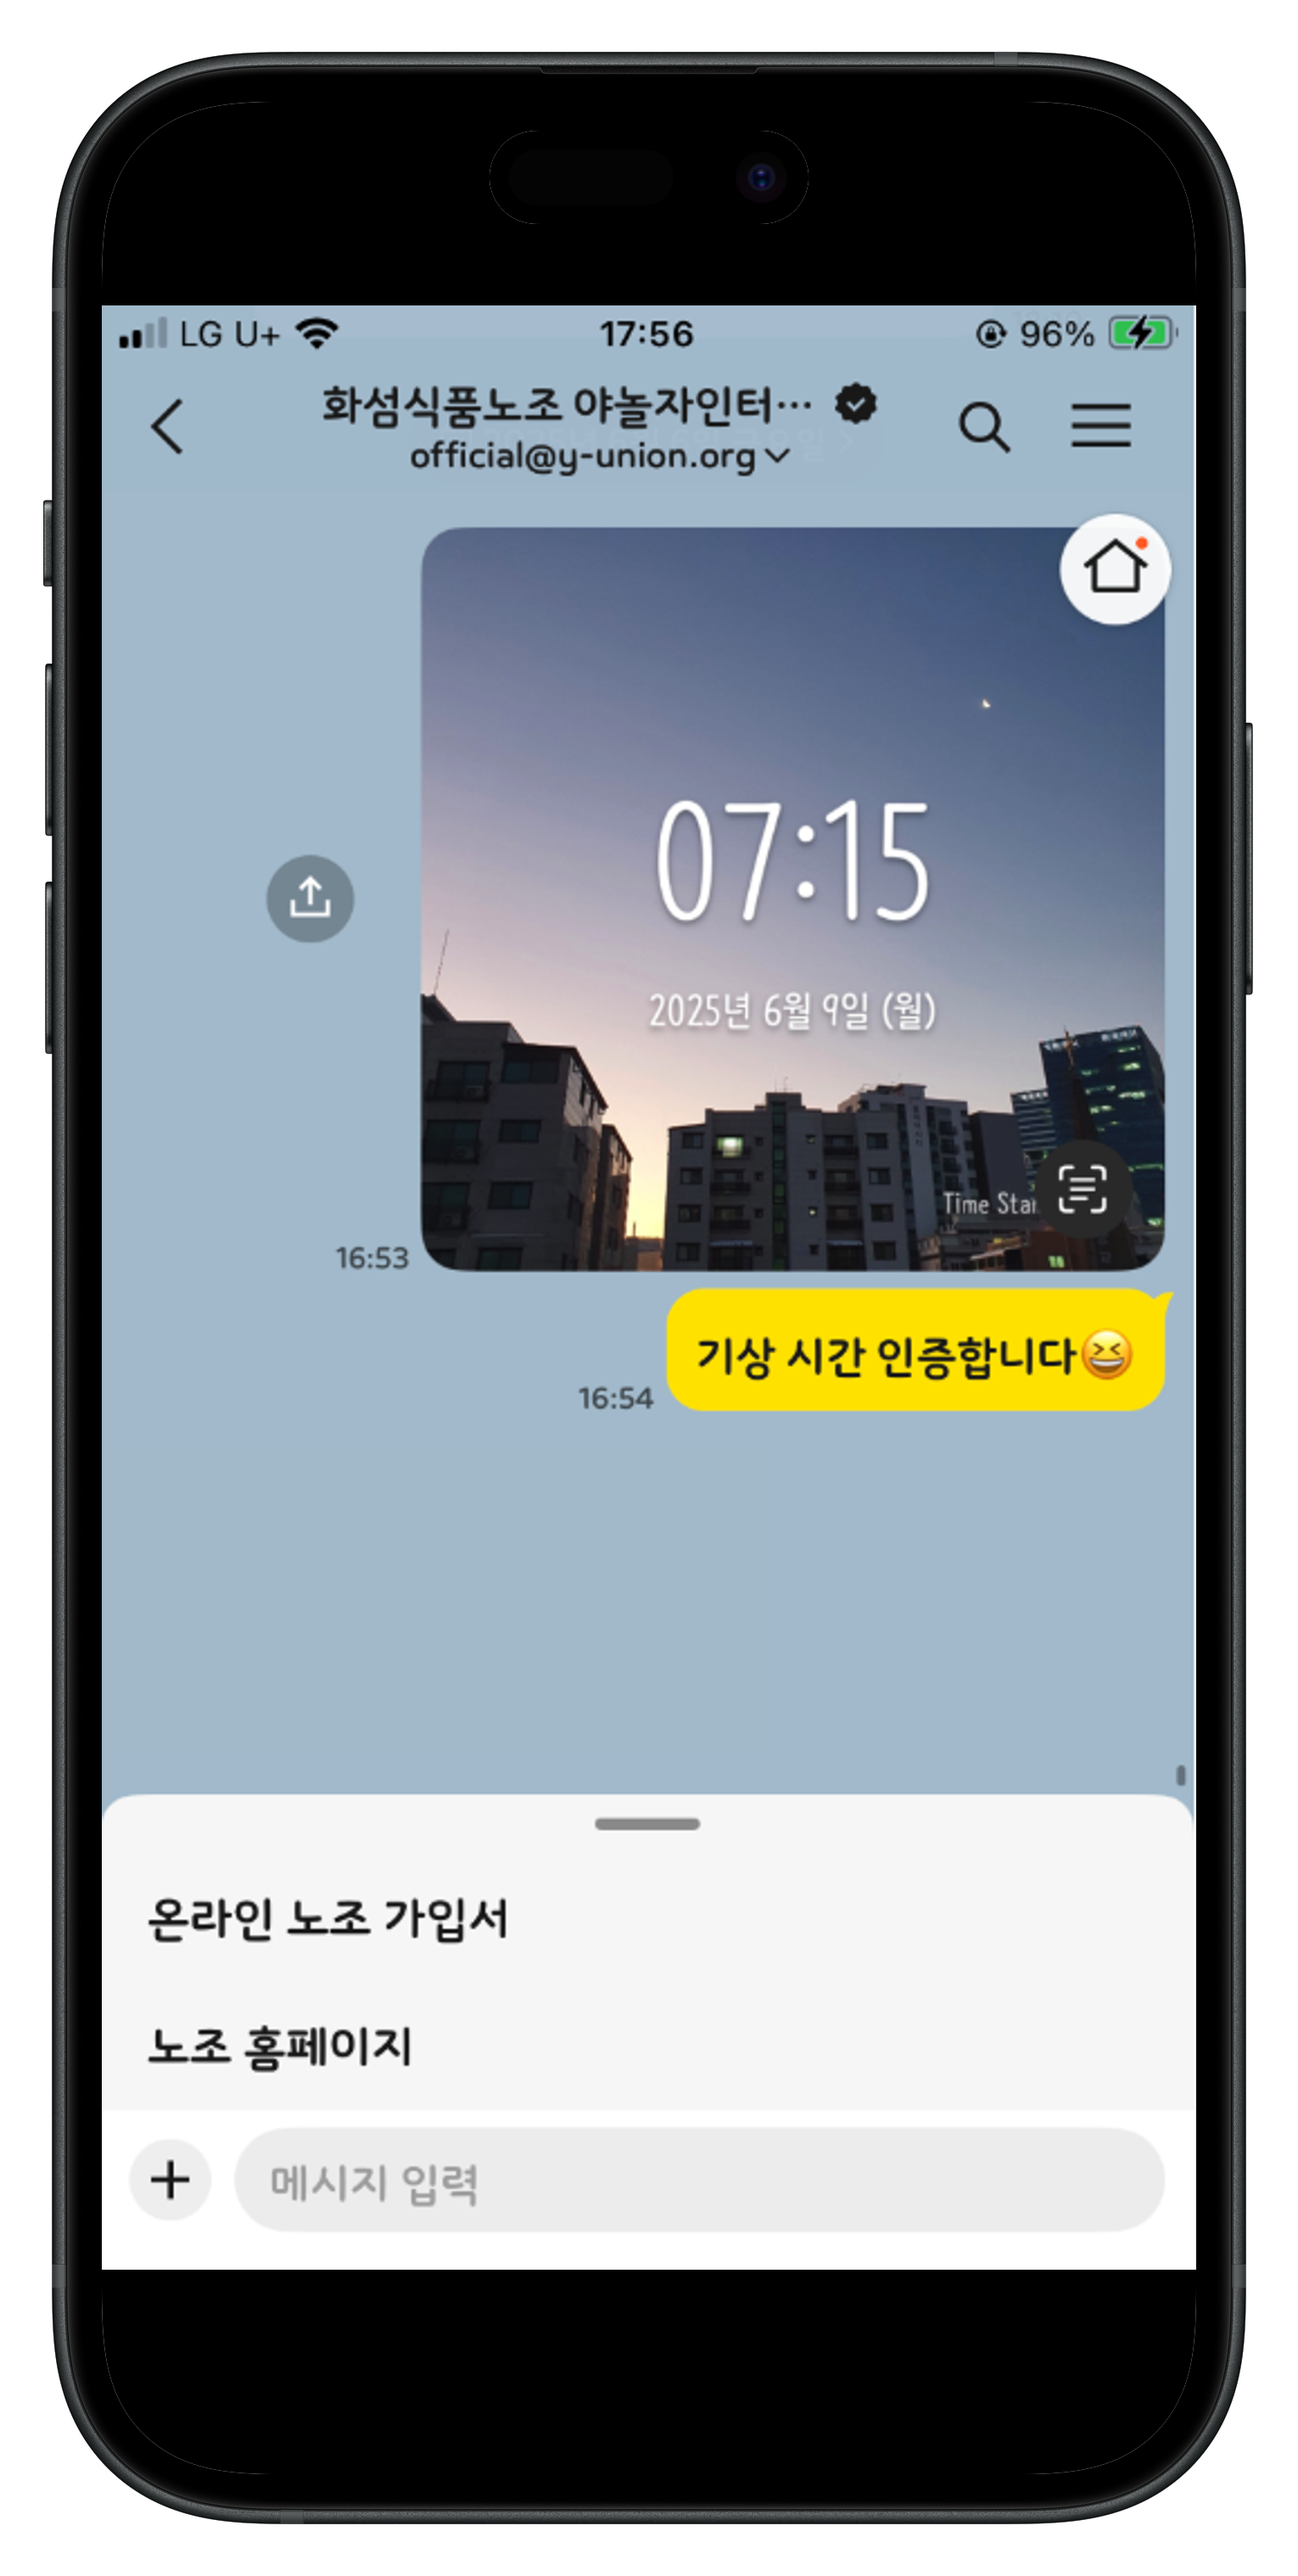
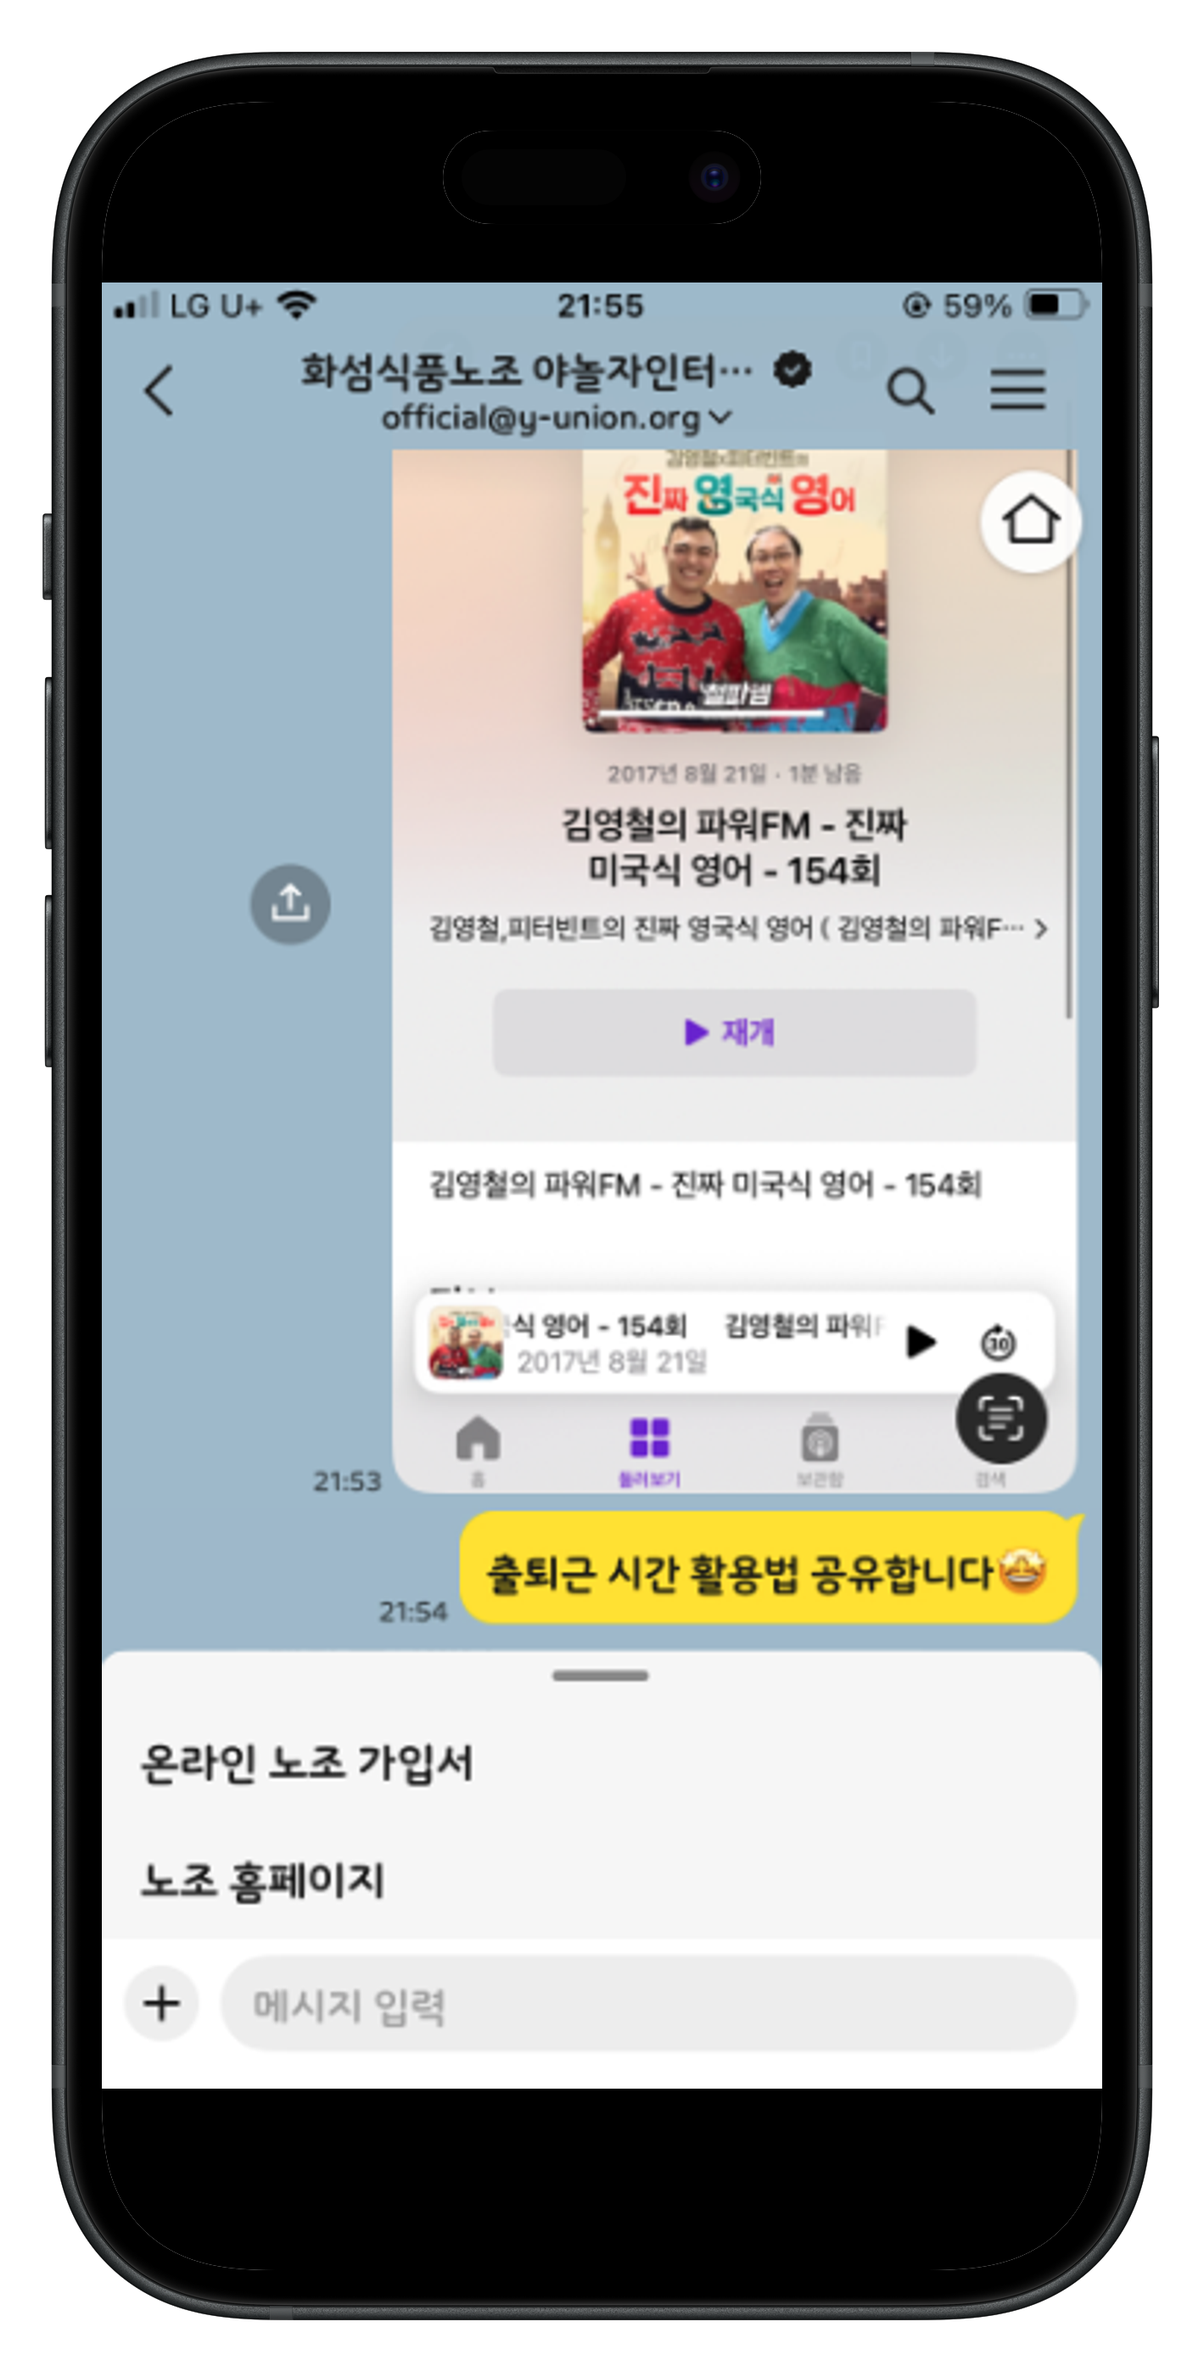
feat: 첫번째 캠페인 작업
* 2차 이벤트 내용으로 수정

diff --git a/index.html b/index.html
@@ -74,14 +74,17 @@
     <section class="section" id="section2">
       <h2>이벤트</h2>
       <div class="section-underline-base section-underline-light"></div>
-      <p><small>📅 <strong>1차:</strong> 2025.06.09 (월) ~ 2025.06.14 (토)</small></p>
-      <p><strong>《노동조합 카톡 채널로 기상 시간 인증하기》</strong></p>
+      <p><small>📅 <strong>2차:</strong> 2025.06.16 (월) ~ 2025.06.21 (토)</small></p>
+      <p><strong>《와이유니온 카톡 채널로 출퇴근 시간 활용법 공유하기》</strong></p>
       <p>
         와이유니온 카톡 채널 추가 후,<br />
-        여러분의 <u>기상 시간</u>과 <u>사연</u>을 사진과 함께 인증해주세요.<br/>
-        추첨을 통해 [네이버페이 포인트]를 선물로 드립니다! 🎁
+        출퇴근 시간 활용법을 공유해주세요.<br/> <br/>
+        추첨을 통해 <br/><strong>[네이버페이 포인트(최대 3만 원)]</strong>를 <br/>선물로 드립니다! 🎁
       </p>
-      <p><small>※ 발송자 및 수신 메시지는 경품 추첨 외 <br/> 다른 용도로는 사용되지 않습니다.</small></p>
+      <p><small>
+        ※ 발송자 및 수신 메시지는 경품 추첨 외 <br/> 다른 용도로는 사용되지 않습니다.
+        <br/>※ 당첨자분들께는 개별 연락을 드릴 예정입니다.
+      </small></p>
 
       <div id="slider-wrapper">
           <div id="slider-container">
@@ -106,9 +109,10 @@
       </div>
       
       <div class="campaign-box">
-        <p><strong>✅ 예정된 이벤트 일정</strong></p>
+        <p><strong>✅ 이벤트 일정</strong></p>
         <ul class="campaign-schedule">
-          <li>📅 <strong>2차:</strong> 2025.06.16 (월) ~ 2025.06.21 (토)</li>
+          <li style="color: gray; opacity: 0.5;">📅 <strong>1차 (종료):</strong> 2025.06.09 (월) ~ 2025.06.14 (토)</li>
+          <li style="color: red; font-weight: bold;">📅 <strong>2차 (진행 중):</strong> 2025.06.16 (월) ~ 2025.06.21 (토)</li>
           <li>📅 <strong>3차:</strong> 2025.06.23 (월) ~ 2025.06.28 (토)</li>
         </ul>
 
@@ -135,7 +139,7 @@
       <iframe 
         src="https://padlet.com/yunioncampaign/first"
         width="100%"
-        height="800"
+        height="600"
         style="border:none;"
         allow="camera; microphone; geolocation">
       </iframe>
